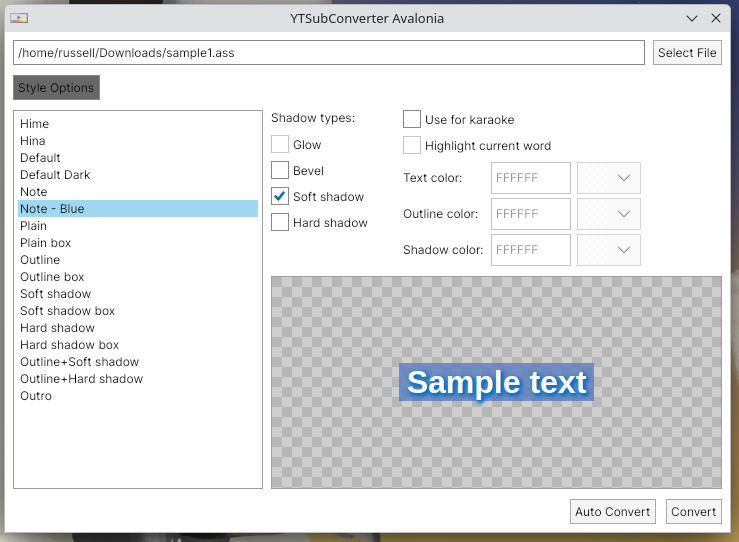
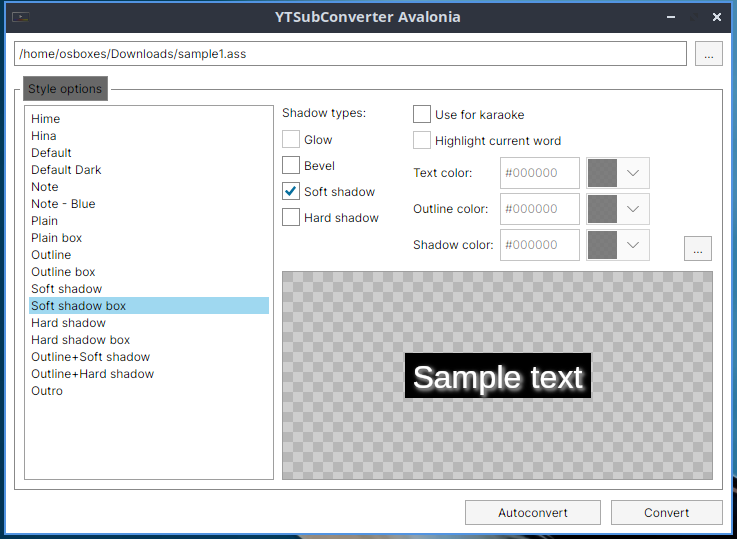
New images, migration writeup for Avalonia Port Challenge

Changed region(s): [[0.0, 0.0, 1.0, 1.0], [0.5305, 0.6531, 0.8114, 0.7421]]

diff --git a/migrationWriteup.md b/migrationWriteup.md
@@ -1,0 +1,64 @@
+### YTSubConverterAvalonia - Migration Writeup (Avalonia Port Challenge)
+
+[YTSubConverter](https://github.com/arcusmaximus/YTSubConverter) is a .NET application used by YouTube Timed Text subtitle designers to convert Advanced Substation Alpha subtitles into YouTube Timed Text. YTT subtitles created via YTSubConverter are most abundant within the Vocaloid and Utaite music sphere of YouTube, but are expanding into new genres as time goes on, and have grown into a niche but beloved feature of the site. Through every step of YTT's small history, YTSubConverter has been the backbone of it all.
+
+Some notable videos using YouTube Timed Text subtitles created via YTSubConverter include:
+
+[Kikuo - Aishite, Aishite, Aishite](https://www.youtube.com/watch?v=NTrm_idbhUk) (Bangla, English, French, Hindi, Indonesian)
+
+[AnythingBecomeMoe - YARARARA](https://www.youtube.com/watch?v=T24rF_x0TmQ) (English, Korean, Latin American Spanish)
+
+[VANTA - JANE DOE cover](https://www.youtube.com/watch?v=slj6ONZ5VUE) (English)
+
+Starting development in late 2018, the converter initially targeted WinForms presumably since it was a quick and dirty solution to make a UI for a small application. This left out both Linux and macOS users, which would result in development of GtkSharp and Xamarin.Mac user interfaces. YTSubConverter currently is built out of 5 different projects; the shared library, a test library, and the three user interfaces.
+
+#### What benefits does an Avalonia port bring to YTSubConverter
+
+Although YTSubConverter's UIs are in a "feature complete" state, being built between three distinct UI platforms has caused inconsistencies in the UI, and means any future feature additions require three times the frontend development effort. Rather than play a slow, several years long game of inconsistency whack-a-mole to only be left with a subpar frontend development environment, why not just unify the project under the modernized UI frameworks of 2026? This wasn't the primary reason I started development, in fact, I just wanted a dark mode UI on Windows, but unification became the primary benefit found within an Avalonia UI port.
+
+#### The migration process
+
+Thankfully, YTSubConverter's multi-UI structure made migration to a new user interface a light process. All the subtitle conversion business logic is held inside YTSubConverter.Shared, which is accessed through the UI projects. This meant bulk of the porting process was directly lifting code from MainForm.cs of YTSubConverter.UI.Win to build up my MainWindowViewModel.cs with changes as needed to fit within MVVM architecture.
+
+There are a few notable exceptions where Avalonia and MVVM needed its own considerations within the port:
+
+Axaml made implementing localization a breeze; YTSubConverter's UIs had to call a LocalizeUI method in it's MainForm.cs to update its form with ResX localized strings during the form initialization, while in axaml the ResX localization could be called directly by the controls.
+
+Handling the karaoke color system also seemed like it would be a tough process since I was not familiar with Avalonia converters. YTSubConverter uses C#'s System.Drawing colors, while Avalonia's color picker uses Avalonia's colors. Initially I had static methods within my ViewModel to perform conversions, but shifting to using converters within the axaml meant my MainWindowViewModel.cs code could be closer to the code seen in MainForm.cs.
+
+The biggest surprise of the implementation process was making the subtitle style preview function. YTSubConverter.UI.X uses a WebView that updates directly with Html information from YTSubConverter.Shared's preview generator. At the time of development, Avalonia's NativeWebView had just went open source: I was able to get it working by using the preview generator output as a URL with "data:text/html;charset=utf-8;base64," to set the Source property of the NativeWebView. While now the documentation includes the NavigateToString method, the URL source method plays a little nicer with MVVM and keeping out of the code-behind behind as much as possible.
+
+The last notable challenge I had was in recreating the expand/collapse style options of YTSubConverter.UI.Win. MainForm.cs could just directly change its height, but MVVM doesn't allow that. I was able to recreate this in MVVM with a WeakReferenceMessenger from the ViewModel to the code-behind when the style options button is toggled.
+
+The core takeaway from this migraiton is that .NET applications that already host multiple UI projects for platform support are prime candidates for migration to Avalonia. Good delination of business logic within YTSubConverter reduced the difficulty of migration down to only having to consider for MVVM and axaml.
+
+#### The costs
+
+The biggest technical loss in going from platform focused UIs to a single unified UI was performance and filesize. YTSubConverter.exe on Windows has a lean 500kb portable executable, while Avalonia drags this up to almost 200MB with a pile of dependencies, with RAM usage becoming 4x higher. This mostly stems from three issues: one is with YTSubConverter.Shared being on .NET standard 2.0 which doesn't support trimming assemblies (I have to bring it in directly because the NuGet version doesn't include ITextMeasurer which breaks some functionality), the second issue is something with NativeWebView that causes single file output to stop playing nice, and lastly my own choice to deploy as self-contained (if I'm going to have size/footprint issues, I might as well go all in on them and get a little bit of benefit).  For a small application that aims for portability, this is a rough pill to swallow.
+
+In terms of an individual cost to me, I'd consider this "free" and to be of learning value rather than cost to myself. Making YouTube Timed Text subtitles is a big hobby of mine, and creating YTSubConverterAvalonia has served as a stepping stone towards a larger Avalonia UI project using the YTSubConverter library.
+
+#### Side by Side
+
+###### YTSubConverter.UI.Win => YTSubConverterAvalonia, Windows 11 in dark theme
+
+![YTSubConverter.UI.Win next to YTSubConverterAvalonia, Windows 11 in dark theme.](images/comparison-Windows.png)
+
+YTSubConverterAvalonia's UI design was based on YTSubConverter.UI.Win, although I chose to freestyle the UI layout rather than go for a strict pixel-to-pixel layout. The style preview background selector button couldn't be placed overtop the style preview due to what I assume is airspace issues in the NativeWebView control.
+
+###### YTSubConverter.UI.Linux => YTSubConverterAvalonia, LXQt in light theme
+
+![YTSubConverter.UI.Linux next to YTSubConverterAvalonia, LXQt in light theme.](images/comparison-Linux.png)
+
+A handful of features are lacking in YTSubConverter.UI.Linux: only the file name is shown rather than full file path, style options are not contained within a groupbox and cannot be hidden, and the background image of the style preview cannot be adjusted. Since YTSubConverterAvalonia shares UI code between all three of the target platforms, the structure seen in YTSubConverter.UI.Win is losslessly brought over to Linux compared to the GTKSharp based YTSubConverter.UI.Linux at zero extra development cost. I initially didn't even know the GTK UI version was lacking in these features!
+
+(Unfortunately, I do not own a macOS device to compare YTSubConverter.UI.Mac to YTSubConverterAvalonia...)
+
+#### In numbers
+
+YTSubConverter was built over 62 commits primarily over two weeks in April 2026, with occasional development throught the year.
+
+|                                                                     |YTSubConverterAvalonia|YTSubConverter.UI.Win|YTSubConverter.UI.Mac|YTSubConverter.UI.Linux|Combined YTSubConverter.UI.X|
+|---------------------------------------------------------------------|-|-|-|-|-|
+| Lines of code, counted via [CLOC](https://github.com/aldanial/cloc) |743 C#,<br />165 AXAML,<br />908 Total|1,732 XML,<br />552 C#,<br />391 C# Designer,<br />2,675 Total|1,220 XML,<br />706 C#,<br />289 C# Designer,<br />275 JSON,<br />2,490 Total|945 C#,<br />429 Glade,<br />1,374 Total|2,952 XML,<br />2,203 C#,<br />680 C# Designer,<br />429 Glade,<br />275 JSON,<br />6,539 Total|
+| Targeted platforms                                                  |3<br />(Win, macOS, Linux)|1|1|2<br />(Functional on Windows)|3<br />(Win, macOS, Linux)|

diff --git a/README.md b/README.md
@@ -2,9 +2,9 @@
 
 It's [YTSubConverter](https://github.com/arcusmaximus/YTSubConverter), but implemented in Avalonia UI
 
-| ![screenshot-darkmode.png](images/screenshot.png) | ![screenshot-Linux.png](images/screenshot-Linux.png) |
-|:-------------------------------------------------:|:----------------------------------------------------:|
-|              Windows 11 in dark mode              |   Linux (Fedora 43, KDE Plasma 6.5) in light mode    |
+| ![YTSubConverterAvalonia on Windows 11 in dark mode](images/screenshot.png) | ![YTSubConverterAvalonia running on Linux (LXQt in light mode)](images/screenshot-Linux.png) |
+|:---------------------------------------------------------------------------:|:---------------------------------------------------------------------------------------:|
+|                           Windows 11 in dark mode                           |                           Linux (Lubuntu, LXQt) in light mode                           |
 
 
 I made this mostly for fun and to learn about using YTSubConverter.Shared and improve on my MVVM skills for use in a
